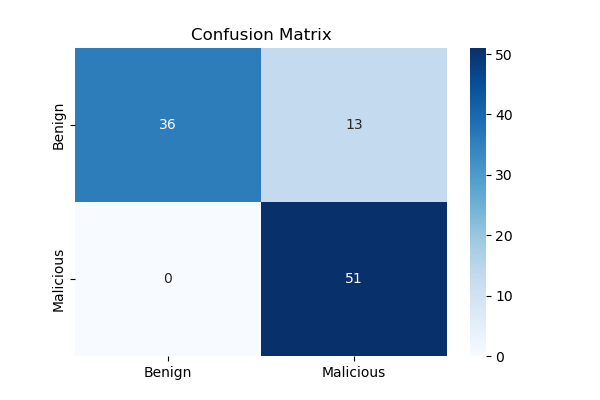
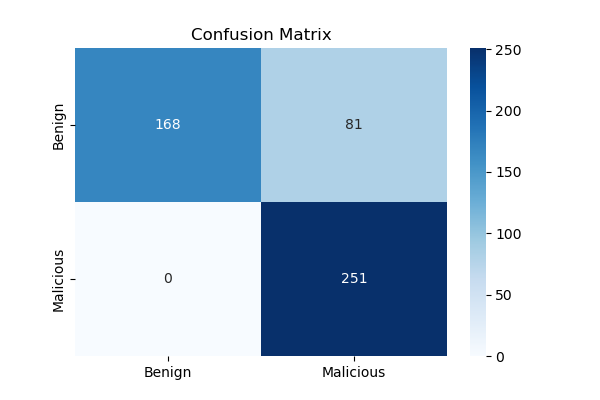
BCCC model fine tunned

diff --git a/config.py b/config.py
@@ -56,7 +56,7 @@ class Config:
     MAX_SAMPLES = 1_000_000  # Limit total samples
     CHUNK_SIZE = 100_000  # Rows per chun
 
-    MAX_GRAPH_NODES = 1000  # Maximum nodes per graph
+    MAX_GRAPH_NODES = 5000  # Maximum nodes per graph
     MAX_NODE_DEGREE = 5000
     MAX_GRAPH_EDGES = 5000  # Maximum edges per graph
     MIN_EDGE_WEIGHT = 1
@@ -84,11 +84,11 @@ class Config:
     
     
     # Model Architecture
-    HIDDEN_CHANNELS = 16
+    HIDDEN_CHANNELS = 64
     NUM_CLASSES = 2
     DROPOUT = 0.5
-    HEADS = 2
-    GAT_LAYERS = 2
+    HEADS = 4
+    GAT_LAYERS = 3
     
     # Training
     TEST_RATIO = 0.2
